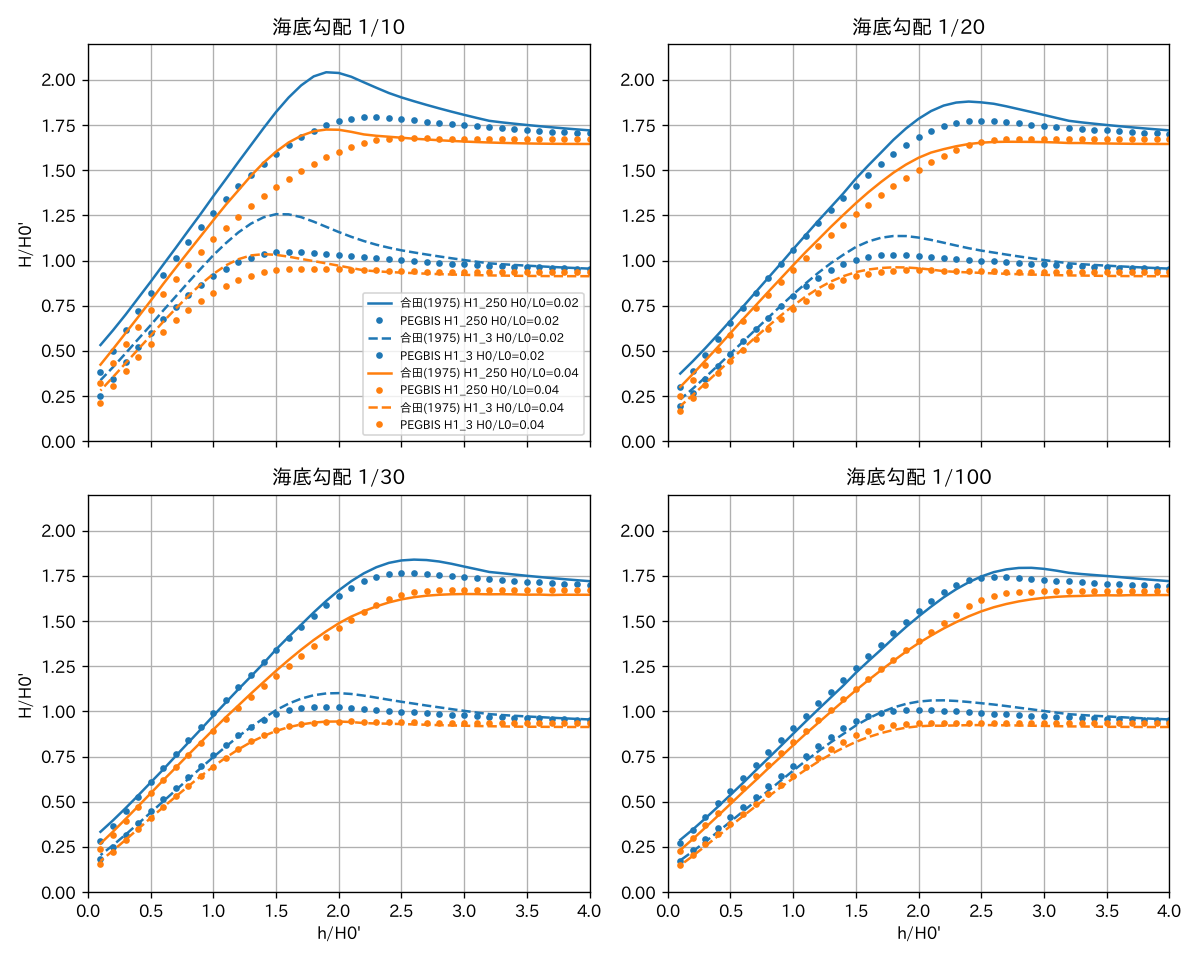
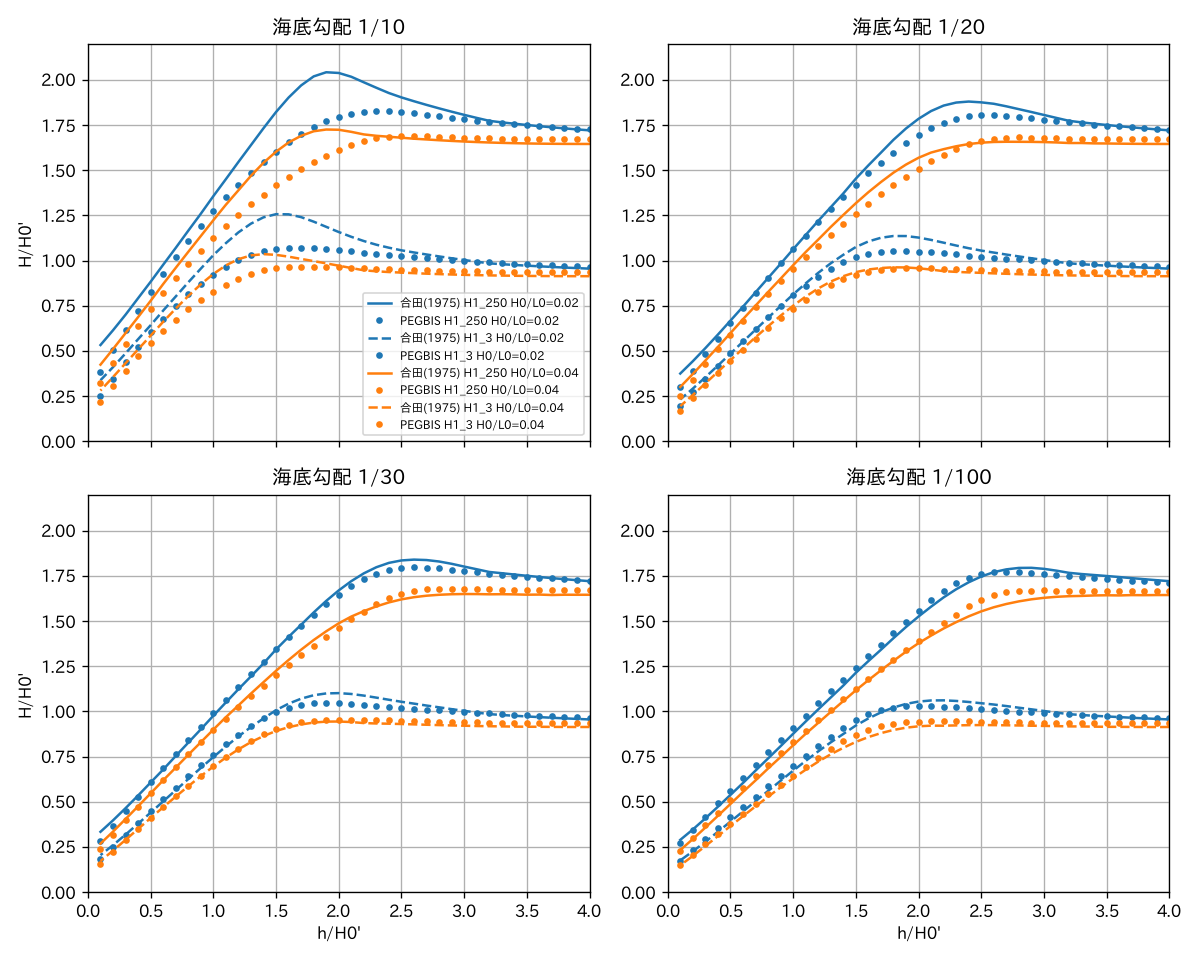
🐛 fix: PEGBIS を論文と再照合し、ピーク周期比・最大波高レベル・Cb の扱いを修正
- Tp/T1/3 を 1.05 (JONSWAP γ=3.3 の値) から修正 Bretschneider-光易型の
  0.6^(-1/4) = 1.136 に修正（論文付録: Tp = 9.10 s, T1/3 = 8.01 s）
- M を減らしても最大の波高レベル H1 を 1.80 H0' 以上とする（論文 6 章）
- Cb を波高レベル数 M に応じて決める default_cb() を追加（論文 2 章 (5)）
- cal_surf_pegbis / cal_surf_pegbis_slope / gradational_breaker_index に cb, cb2 を追加。
  cb2 の既定値は Cb に比例配分する（論文 9 章: Cb = 0.070 に対し Cb' = 0.0613）
- 図-1 の砕波限界波高比、Tp/T1/3、default_cb などのテストを追加

Claude-Session: https://claude.ai/code/session_01RbKMNssfhUY4SeuAwQupaZ

diff --git a/src/goda_wb/pegbis.py b/src/goda_wb/pegbis.py
@@ -25,7 +25,9 @@ from goda_wb.constant import (
     PEGBIS_BREAKING_DL0,
     PEGBIS_CB,
     PEGBIS_CB2,
+    PEGBIS_CB_BY_LEVELS,
     PEGBIS_FW,
+    PEGBIS_H1_MIN_RATIO,
     PEGBIS_LEVELS,
     PEGBIS_MAX_DH_RATIO,
     PEGBIS_MAX_DX_H_RATIO,
@@ -57,6 +59,9 @@ _DEEP_KH = 20.0
 def wave_levels(H0: float, M: int = PEGBIS_LEVELS) -> np.ndarray:
     """レイリー分布を等確率に M 分割した沖波の波高レベル（式 (5)）。
 
+    論文のプログラムと同じく、M を減らしても最大の波高レベル H1 は 1.80 H0' を下回らない
+    ようにする（6 章: 砕波帯外の沖側で Hmax = 1.80 H1/3 として計算を開始する）。
+
     Args:
         H0: 沖波の有義波高 H0' [m]
         M: 波高レベルの数
@@ -69,14 +74,32 @@ def wave_levels(H0: float, M: int = PEGBIS_LEVELS) -> np.ndarray:
     if M < 1:
         raise ValueError(f"波高レベル数は 1 以上でなければなりません: {M}")
     m = np.arange(1, M + 1)
-    return 0.706 * H0 * np.sqrt(np.log(2.0 * M / (2.0 * m - 1.0)))
+    levels = 0.706 * H0 * np.sqrt(np.log(2.0 * M / (2.0 * m - 1.0)))
+    levels[0] = max(levels[0], PEGBIS_H1_MIN_RATIO * H0)
+    return levels
+
+
+def default_cb(M: int) -> float:
+    """波高レベル数 M に応じた段階的砕波係数の定数 Cb（2 章 (5)）。
+
+    M >= 300 では 0.080、M = 101, 61, 31 では 0.077, 0.076, 0.074 とし、間は線形補間する。
+
+    Args:
+        M: 波高レベルの数
+
+    Returns:
+        定数 Cb
+    """
+    ms, cbs = zip(*PEGBIS_CB_BY_LEVELS, strict=True)
+    return float(np.interp(M, ms, cbs))
 
 
 def spectral_periods(T: float, n_freq: int) -> np.ndarray:
     """エネルギーが等しくなるように分割した周波数成分の周期（式 (15)、γ = 1）。
 
     Args:
-        T: 有義波周期 T1/3 [s]。ピーク周期は Tp = 1.05 T1/3 とする
+        T: 有義波周期 T1/3 [s]。ピーク周期は修正 Bretschneider-光易型スペクトルの
+            関係 Tp = 1.136 T1/3 とする
         n_freq: 周波数成分の数 N。1 の場合は T のみを返す
 
     Returns:
@@ -100,6 +123,8 @@ def gradational_breaker_index(
     slope: float,
     Hm: float | np.ndarray,
     H1: float,
+    cb: float = PEGBIS_CB,
+    cb2: float = PEGBIS_CB2,
 ) -> float | np.ndarray:
     """段階的砕波係数 κm（式 (7)、I <= 0 では式 (11) の κm'）。
 
@@ -113,14 +138,16 @@ def gradational_breaker_index(
         slope: 海底勾配 I（岸向きに浅くなる向きを正）
         Hm: 沖波の波高レベル [m]
         H1: 沖波の最大の波高レベル [m]
+        cb: I > 0 で用いる定数 Cb
+        cb2: I <= 0 で用いる定数 Cb'
 
     Returns:
         段階的砕波係数 κm
     """
     if slope > 0:
-        cb, beta0, p, i = PEGBIS_CB, PEGBIS_BETA0, PEGBIS_P, slope
+        beta0, p, i = PEGBIS_BETA0, PEGBIS_P, slope
     else:
-        cb, beta0, p, i = PEGBIS_CB2, PEGBIS_BETA02, PEGBIS_P2, 0.0
+        cb, beta0, p, i = cb2, PEGBIS_BETA02, PEGBIS_P2, 0.0
     hh = np.minimum(h, PEGBIS_BREAKING_DL0 * L0)
     first = cb * L0 / hh * (1.0 - np.exp(-1.5 * np.pi * hh / L0 * (1.0 + 15.0 * i**2.5)))
     second = beta0 * Hm / hh * (Hm / L0) ** (-0.38) * np.exp(30.0 * i**2)
@@ -250,6 +277,8 @@ def cal_surf_pegbis(
     fw: float | Sequence[float] = PEGBIS_FW,
     M: int = PEGBIS_LEVELS,
     n_freq: int = 1,
+    cb: float | None = None,
+    cb2: float | None = None,
 ) -> pd.DataFrame:
     """任意の断面地形における不規則波の砕波変形（PEGBIS の岸沖方向 1 次元版）。
 
@@ -266,6 +295,9 @@ def cal_surf_pegbis(
         fw: 底面の摩擦係数。スカラーまたは x と同じ長さの配列（点間は線形補間）
         M: 波高レベルの数
         n_freq: 周波数成分の数。1 の場合は周期 T の単一成分、2 以上では式 (15) で分割
+        cb: 段階的砕波係数の定数 Cb。None の場合は M に応じた値 (default_cb)。
+            論文は現地海岸への適用には Cb = 0.070 を推奨している（9 章 (5)）
+        cb2: 海底勾配 0 以下で用いる Cb'。None の場合は 0.080 × Cb / 0.080 の比例配分
 
     Returns:
         各入力点の結果を含む DataFrame。
@@ -286,6 +318,12 @@ def cal_surf_pegbis(
     if np.any(fw_arr < 0):
         raise ValueError("摩擦係数は非負でなければなりません")
 
+    if cb is None:
+        cb = default_cb(M)
+    if cb2 is None:
+        cb2 = PEGBIS_CB2 * cb / PEGBIS_CB
+    if cb <= 0 or cb2 <= 0:
+        raise ValueError(f"Cb, Cb' は正の値でなければなりません: cb={cb}, cb2={cb2}")
     levels = wave_levels(H0, M)
     periods = spectral_periods(T, n_freq)
     L0n = g * periods**2 / pi2
@@ -301,7 +339,7 @@ def cal_surf_pegbis(
     a = 0.5 * levels[:, None] * np.sqrt(0.5 / cg_prev)[None, :]
 
     def decay(amp: np.ndarray, j: int, kh: np.ndarray) -> np.ndarray:
-        kappa = gradational_breaker_index(hf[j], L0, slope[j], levels[:, None], levels[0])
+        kappa = gradational_breaker_index(hf[j], L0, slope[j], levels[:, None], levels[0], cb, cb2)
         fd = breaking_decay_coef(amp, hf[j], kappa, slope[j])
         if fwf[j] > 0:
             fd = fd + bottom_friction_coef(amp, hf[j], kh[None, :], fwf[j])
@@ -345,6 +383,8 @@ def cal_surf_pegbis_slope(
     fw: float = PEGBIS_FW,
     M: int = PEGBIS_LEVELS,
     n_freq: int = 1,
+    cb: float | None = None,
+    cb2: float | None = None,
 ) -> pd.DataFrame:
     """一様勾配斜面における PEGBIS の無次元計算（合田 (1975) のモデルとの比較用）。
 
@@ -358,6 +398,8 @@ def cal_surf_pegbis_slope(
         fw: 底面の摩擦係数
         M: 波高レベルの数
         n_freq: 周波数成分の数
+        cb: 段階的砕波係数の定数 Cb（cal_surf_pegbis と同じ）
+        cb2: 海底勾配 0 以下で用いる Cb'（cal_surf_pegbis と同じ）
 
     Returns:
         各水深における波高比 (H/H0') を含む DataFrame。
@@ -379,7 +421,7 @@ def cal_surf_pegbis_slope(
     grid = sorted(set(targets) | {start}, reverse=True)
     x = [(start - v) / tant for v in grid]
     T = float(np.sqrt(pi2 / g))  # L0 = 1
-    df = cal_surf_pegbis(x, grid, h0l0, T, fw=fw, M=M, n_freq=n_freq)
+    df = cal_surf_pegbis(x, grid, h0l0, T, fw=fw, M=M, n_freq=n_freq, cb=cb, cb2=cb2)
 
     cols = list(_REPRESENTATIVE) + ["Hrms", "Hmean"]
     res = df[cols] / h0l0

diff --git a/test/test_pegbis.py b/test/test_pegbis.py
@@ -11,6 +11,7 @@ sys.path.append(str(ROOT_DIR / "src"))
 
 import goda_wb.core as core
 import goda_wb.pegbis as pegbis
+from goda_wb.constant import PEGBIS_TP_T13
 
 # ---------------------------------------------------------------------------
 # wave_levels() / spectral_periods()
@@ -25,6 +26,23 @@ def test_wave_levels_reproduce_rayleigh_statistics() -> None:
     assert np.all(np.diff(levels) < 0)
     assert rep["H1_3"] == pytest.approx(1.0, abs=0.01)
     assert rep["H1_250"] / rep["H1_3"] == pytest.approx(1.80, abs=0.02)
+
+
+def test_wave_levels_h1_floor_for_small_m() -> None:
+    """M を減らしても最大レベルは 1.80 H0' を下回らないこと（論文 6 章）。"""
+    assert pegbis.wave_levels(1.0, 61)[0] == pytest.approx(1.80)
+    assert pegbis.wave_levels(1.0)[0] == pytest.approx(0.706 * np.sqrt(np.log(1662.0)))
+
+
+@pytest.mark.parametrize(("M", "expected"), [(831, 0.080), (300, 0.080), (101, 0.077), (31, 0.074)])
+def test_default_cb(M: int, expected: float) -> None:
+    """波高レベル数に応じた Cb（論文 2 章 (5)）。"""
+    assert pegbis.default_cb(M) == pytest.approx(expected)
+
+
+def test_peak_period_ratio_matches_paper() -> None:
+    """Tp/T1/3 が論文付録の Tp = 9.10 s, T1/3 = 8.01 s と一致すること。"""
+    assert pytest.approx(9.10 / 8.01, rel=0.002) == PEGBIS_TP_T13
 
 
 def test_spectral_periods() -> None:
@@ -75,6 +93,26 @@ def test_breaker_index_matches_paper_figures(
     """式 (7)/(11) の κm が論文の図-2, 3 と一致すること。"""
     kappa = pegbis.gradational_breaker_index(h, L0, slope, hm, H1_LEVEL)
     assert kappa == pytest.approx(expected, abs=0.02)
+
+
+# 図-1 (I = 0) の最大波高レベルの Hb/h = 2κ1 を h/L0 = 0.01 で読み取った値。
+# 図中の H0/L0 は H1/L0 として描かれている
+@pytest.mark.parametrize(("h1l0", "expected"), [(0.01, 0.92), (0.02, 1.02), (0.04, 1.18)])
+def test_breaker_index_matches_fig1(h1l0: float, expected: float) -> None:
+    """最大レベルの砕波限界波高比が論文の図-1 と一致すること。"""
+    kappa = pegbis.gradational_breaker_index(0.01, 1.0, 0.0, h1l0, h1l0, cb2=0.080)
+    assert 2.0 * kappa == pytest.approx(expected, abs=0.03)
+
+
+def test_breaker_index_custom_cb() -> None:
+    """Cb, Cb' を指定すると勾配の正負に応じて使い分けること。"""
+    base = pegbis.gradational_breaker_index(1.0, 50.0, 0.02, 1.0, 1.0)
+    low = pegbis.gradational_breaker_index(1.0, 50.0, 0.02, 1.0, 1.0, cb=0.070)
+    flat = pegbis.gradational_breaker_index(1.0, 50.0, 0.0, 1.0, 1.0, cb=0.070)
+    flat2 = pegbis.gradational_breaker_index(1.0, 50.0, 0.0, 1.0, 1.0, cb2=0.0613)
+    assert low < base
+    assert flat == pytest.approx(pegbis.gradational_breaker_index(1.0, 50.0, 0.0, 1.0, 1.0))
+    assert flat2 < flat
 
 
 def test_breaker_index_capped_beyond_dl0_02() -> None:
@@ -210,7 +248,8 @@ def test_horizontal_step_matches_paper_calculation() -> None:
     """水平ステップ上の安定波高が論文 図-11 の計算値と概ね一致すること。
 
     図-11 の計算値（水平床上）は Hmax ≈ 0.101, H1/10 ≈ 0.078, H1/3 ≈ 0.065 m。
-    本実装は 7~8 % 小さい（Hrms, Hmean は 15~19 % 小さい）。
+    本実装は 5~6 % 小さい（Hrms, Hmean は 12~14 % 小さい）。沖側 (h = 0.36 m) の H1/3 は
+    論文の 0.088 m に対し、浅水係数 Ks ≈ 1.03 の分だけ大きい。
     """
     df = pegbis.cal_surf_pegbis(KWEON_X, KWEON_H, 0.0879, 2.21, n_freq=10)
     flat = df[df["x"] >= 3.0]
@@ -219,7 +258,7 @@ def test_horizontal_step_matches_paper_calculation() -> None:
     assert last["H1_250"] == pytest.approx(0.101, rel=0.12)
     assert last["H1_10"] == pytest.approx(0.078, rel=0.12)
     assert last["H1_3"] == pytest.approx(0.065, rel=0.12)
-    assert df.loc[0, "H1_3"] == pytest.approx(0.088, rel=0.03)
+    assert df.loc[0, "H1_3"] == pytest.approx(0.088, rel=0.05)
 
 
 def test_friction_reduces_wave_height() -> None:
@@ -239,6 +278,16 @@ def test_result_independent_of_input_spacing() -> None:
     assert a.iloc[-1]["H1_3"] == pytest.approx(b.iloc[-1]["H1_3"], rel=0.01)
 
 
+def test_lower_cb_increases_decay() -> None:
+    """Cb を下げる（現地海岸向け 0.070）と砕波帯内の波高が小さくなること。"""
+    x = [0.0, 300.0, 500.0]
+    h = [10.0, 2.0, 2.0]
+    lab = pegbis.cal_surf_pegbis(x, h, 3.0, 8.0)
+    field = pegbis.cal_surf_pegbis(x, h, 3.0, 8.0, cb=0.070)
+    assert field.iloc[-1]["H1_3"] < lab.iloc[-1]["H1_3"]
+    assert field.iloc[0]["H1_3"] == pytest.approx(lab.iloc[0]["H1_3"])
+
+
 @pytest.mark.parametrize(
     ("x", "h", "kwargs"),
     [
@@ -247,6 +296,7 @@ def test_result_independent_of_input_spacing() -> None:
         ([0.0, 0.0], [1.0, 1.0], {}),
         ([0.0, 1.0], [1.0, 0.0], {}),
         ([0.0, 1.0], [1.0, 1.0], {"fw": -0.1}),
+        ([0.0, 1.0], [1.0, 1.0], {"cb": 0.0}),
     ],
 )
 def test_profile_rejects_invalid(x, h, kwargs) -> None:

diff --git a/src/goda_wb/constant.py b/src/goda_wb/constant.py
@@ -29,12 +29,17 @@ INVERSE_TOL = 1.0e-6
 # --- 段階的砕波変形モデル PEGBIS (合田, ECOH/YG 技術論文 No.2, Ver.5, 2004) ---
 # 波高レベル数 M（式 (5)）。M = 831 で上位 3.3 レベルの平均が H1/250 = 1.80 H1/3 となる
 PEGBIS_LEVELS = 831
-# 段階的砕波係数 κm の定数（式 (8)、海底勾配 I > 0）
+# 段階的砕波係数 κm の定数（式 (8)、海底勾配 I > 0）。Cb = 0.080 は M >= 300 の値
 PEGBIS_CB = 0.080
 PEGBIS_BETA0 = 0.016
 PEGBIS_P = 0.333
+# 波高レベル数 M が小さいときの Cb（2 章 (5): M = 101, 61, 31 で 0.077, 0.076, 0.074）
+PEGBIS_CB_BY_LEVELS = ((31, 0.074), (61, 0.076), (101, 0.077), (300, 0.080))
+# M を減らしても最大の波高レベル H1 はこの値 × H0' 以上とする（6 章: Hmax = 1.80 H1/3）
+PEGBIS_H1_MIN_RATIO = 1.80
 # 海底勾配 I <= 0（トラフ・水平ステップ）の第 2 の段階的砕波係数 κm' の定数（式 (11)）。
-# 論文では Cb' = 0.070~0.080 とされ、水平ステップには 0.080 を適用している
+# 論文では Cb' = 0.070~0.080 とされ、水平ステップには 0.080 を適用している。
+# Cb を変えるときは Cb' を比例配分する（9 章: Cb = 0.070 に対し Cb' = 0.0613）
 PEGBIS_CB2 = 0.080
 PEGBIS_BETA02 = 0.016
 PEGBIS_P2 = 0.667
@@ -44,8 +49,9 @@ PEGBIS_BREAKING_DL0 = 0.2
 PEGBIS_SLOPE_DISTANCE_L0 = 0.1
 # 一般の海底面の摩擦係数 fw（2 章 (7)）
 PEGBIS_FW = 0.01
-# 周波数スペクトル成分を使うときのピーク周期と有義波周期の比 (Tp = 1.05 T1/3)
-PEGBIS_TP_T13 = 1.05
+# 周波数スペクトル成分を使うときのピーク周期と有義波周期の比。修正 Bretschneider-光易型
+# (γ = 1) では Tp = 0.6^(-1/4) T1/3 = 1.136 T1/3（付録: Tp = 9.10 s, T1/3 = 8.01 s）
+PEGBIS_TP_T13 = 0.6**-0.25
 # 内部の計算格子の上限: 1 格子の水深変化 |Δh| <= 比 × h、Δx <= 比 × h、Δx <= 比 × L
 PEGBIS_MAX_DH_RATIO = 0.05
 PEGBIS_MAX_DX_H_RATIO = 0.5

diff --git a/CLAUDE.md b/CLAUDE.md
@@ -23,11 +23,11 @@ goda_wb/
 │   └── goda_wb/
 │       ├── __init__.py       # Package init — imports the `core` submodule only
 │       ├── core.py           # Goda (1975) model — all its computation logic (744 lines, 18 functions)
-│       ├── pegbis.py         # Goda (2004) gradational breaking model PEGBIS, 1-D cross-shore (390 lines)
-│       └── constant.py       # Physical constants & model parameters (181 lines)
+│       ├── pegbis.py         # Goda (2004) gradational breaking model PEGBIS, 1-D cross-shore (432 lines)
+│       └── constant.py       # Physical constants & model parameters (187 lines)
 ├── test/
 │   ├── test_core.py          # Test suite for core (662 lines, 137 test cases)
-│   └── test_pegbis.py        # Test suite for pegbis (255 lines, 40 test cases)
+│   └── test_pegbis.py        # Test suite for pegbis (305 lines, 52 test cases)
 ├── sample/                   # Usage examples and visualization scripts
 │   ├── check_core.py
 │   ├── check_goda.py
@@ -86,7 +86,7 @@ uv sync
 uv run pytest -v
 ```
 
-Tests live in `test/test_core.py` (137 cases, covering all public API functions of `core`, including a comparison with values read from Goda (1975) Figs. 50–57 and Table-4) and `test/test_pegbis.py` (40 cases for `pegbis`). All tests must pass before committing.
+Tests live in `test/test_core.py` (137 cases, covering all public API functions of `core`, including a comparison with values read from Goda (1975) Figs. 50–57 and Table-4) and `test/test_pegbis.py` (52 cases for `pegbis`). All tests must pass before committing.
 
 ### Linting and Formatting
 
@@ -154,13 +154,14 @@ A separate model: Goda (2004) ECOH/YG No.2 Ver.5, restricted to 1-D cross-shore,
 
 | Function | Signature | Description |
 |----------|-----------|-------------|
-| `cal_surf_pegbis` | `(x, h, H0, T, fw=0.01, M=831, n_freq=1) → DataFrame` | Arbitrary profile; `x` [m] increasing shoreward, `h` [m] > 0. Columns `x`, `h`, `slope`, `Ks`, `H1_250` … `H1_3`, `Hrms`, `Hmean` [m]. `fw` scalar or per-point array |
-| `cal_surf_pegbis_slope` | `(tant, h0l0, dl0=None, fw=0.01, M=831, n_freq=1) → DataFrame` | Uniform slope, dimensionless (L0 = 1, start at h/L0 = max(0.5, max(dl0))); columns as `cal_surf_goda` (ratios to H0') plus `Hrms`, `Hmean`; no `etal0` |
-| `gradational_breaker_index` | `(h, L0, slope, Hm, H1)` | κm, eq. (7)/(8); for slope <= 0 eq. (11) constants with I = 0; h/L0 capped at 0.2 |
+| `cal_surf_pegbis` | `(x, h, H0, T, fw=0.01, M=831, n_freq=1, cb=None, cb2=None) → DataFrame` | Arbitrary profile; `x` [m] increasing shoreward, `h` [m] > 0. Columns `x`, `h`, `slope`, `Ks`, `H1_250` … `H1_3`, `Hrms`, `Hmean` [m]. `fw` scalar or per-point array. `cb=None` → `default_cb(M)`; `cb2=None` → `0.080 · cb / 0.080` (proportional, as the paper does for its field cases; it recommends `cb=0.070` for field sites) |
+| `cal_surf_pegbis_slope` | `(tant, h0l0, dl0=None, fw=0.01, M=831, n_freq=1, cb=None, cb2=None) → DataFrame` | Uniform slope, dimensionless (L0 = 1, start at h/L0 = max(0.5, max(dl0))); columns as `cal_surf_goda` (ratios to H0') plus `Hrms`, `Hmean`; no `etal0` |
+| `gradational_breaker_index` | `(h, L0, slope, Hm, H1, cb=0.080, cb2=0.080)` | κm, eq. (7)/(8); for slope <= 0 eq. (11) constants with I = 0; h/L0 capped at 0.2 |
 | `breaking_decay_coef` | `(a, h, kappa, slope)` | f_Db, eq. (4) with α_b = 3/8 (0.3 + 2.5 max(I, 0)) (appendix eq. 付1) |
 | `bottom_friction_coef` | `(a, h, kh, fw)` | f_Df, eq. (14) |
 | `swart_fw` | `(ks, am) → float` | Swart (1974) friction factor, capped at 0.30 |
-| `wave_levels` / `spectral_periods` | `(H0, M)` / `(T, n_freq)` | Equal-probability Rayleigh levels, eq. (5); equal-energy frequency split, eq. (15) with Tp = 1.05 T1/3 |
+| `wave_levels` / `spectral_periods` | `(H0, M)` / `(T, n_freq)` | Equal-probability Rayleigh levels, eq. (5), with H1 raised to at least 1.80 H0' for small M (paper §6); equal-energy frequency split, eq. (15) with Tp = 0.6^(-1/4) T1/3 = 1.136 T1/3 (modified Bretschneider–Mitsuyasu; paper appendix: Tp = 9.10 s ↔ T1/3 = 8.01 s) |
+| `default_cb` | `(M) → float` | Cb by number of levels: 0.080 (M ≥ 300), 0.077 (101), 0.076 (61), 0.074 (31), linear in between |
 
 ---
 
@@ -207,7 +208,7 @@ A separate model: Goda (2004) ECOH/YG No.2 Ver.5, restricted to 1-D cross-shore,
 | `ETAI_MAX_RATIO` | 2.0 | Cap on the spacing ratio used by `etai()` extrapolation |
 | `INVERSE_H0L0_MIN` / `INVERSE_H0L0_MAX` | 1e-4 / 0.1 | H0/L0 search bracket of `cal_h0_from_height()`; targets outside it raise `ValueError` |
 | `INVERSE_TOL` | 1e-6 | Convergence tolerance on log(H0/L0) in `cal_h0_from_height()` |
-| `PEGBIS_*` | — | PEGBIS constants: `CB`/`BETA0`/`P` = 0.080/0.016/0.333 (eq. 8), `CB2`/`BETA02`/`P2` = 0.080/0.016/0.667 (eq. 11; paper gives Cb' = 0.070–0.080), `LEVELS` = 831, `FW` = 0.01, `BREAKING_DL0` = 0.2, `SLOPE_DISTANCE_L0` = 0.1, `TP_T13` = 1.05, internal grid limits `MAX_DH_RATIO`/`MAX_DX_H_RATIO`/`MAX_DX_L_RATIO` |
+| `PEGBIS_*` | — | PEGBIS constants: `CB`/`BETA0`/`P` = 0.080/0.016/0.333 (eq. 8), `CB2`/`BETA02`/`P2` = 0.080/0.016/0.667 (eq. 11; paper gives Cb' = 0.070–0.080), `LEVELS` = 831, `FW` = 0.01, `BREAKING_DL0` = 0.2, `SLOPE_DISTANCE_L0` = 0.1, `CB_BY_LEVELS` (table for `default_cb`), `H1_MIN_RATIO` = 1.80, `TP_T13` = 1.136, internal grid limits `MAX_DH_RATIO`/`MAX_DX_H_RATIO`/`MAX_DX_L_RATIO` |
 | `goda_dl0_list` | 113 values | Default d/L₀ evaluation points (1e-9–1.0, descending) |
 | `GAUSS_HERMITE_ABSCISSAE/WEIGHTS` | 8 points | Discretized normal distribution for surf beat (see note below) |
 
@@ -250,7 +251,7 @@ uv run pytest -v test/test_core.py::test_function_name
 
 7. **Inverse calculation**: `cal_h0_from_height()` fixes T (so d/L0 is fixed) and solves `H(H0) = H` on log(H0/L0) with the Illinois (modified regula falsi) method, using `cal_surf_goda` or `cal_surf_goda_approx` as the forward model; the wave height is monotonically increasing in H0. One forward evaluation of the full model takes ~0.1 s, so one inversion takes about 1 s. Inside the surf zone H saturates with H0, so the inverse is ill-conditioned there.
 
-8. **PEGBIS**: with normal incidence the parabolic equation reduces, per level m and frequency component n, to `da/dx = -(1/2) a d(ln cg)/dx - f_D a`. `cal_surf_pegbis` marches it with Heun's method on an internal grid (input points plus subdivisions limited by `PEGBIS_MAX_*`) from the offshore boundary, where heights are linearly shoaled from deep water (the boundary must be outside the surf zone). κm always uses the L0 of T1/3, also for spectral components. Level heights combine components as rms and are sorted before computing H1/n (fractional level weighting); Hmax is represented by `H1_250` as in the paper. No setup, surf beat, nonlinear shoaling, refraction or diffraction. Known differences from the paper: on slope 1/10, Hmax up to ~0.1 H0' lower than the paper's PEGBIS points; on Kweon's step (Fig. 11), stable Hmax/H1/10/H1/3 are 7–8 % lower and Hrms/Hmean 15–19 % lower than the paper's computed values. Shoaling minimum 0.937 with `n_freq=10` matches the paper.
+8. **PEGBIS**: with normal incidence the parabolic equation reduces, per level m and frequency component n, to `da/dx = -(1/2) a d(ln cg)/dx - f_D a`. `cal_surf_pegbis` marches it with Heun's method on an internal grid (input points plus subdivisions limited by `PEGBIS_MAX_*`) from the offshore boundary, where heights are linearly shoaled from deep water (the boundary must be outside the surf zone). κm always uses the L0 of T1/3, also for spectral components. Level heights combine components as rms and are sorted before computing H1/n (fractional level weighting); Hmax is represented by `H1_250` as in the paper. No setup, surf beat, nonlinear shoaling, refraction or diffraction. Known differences from the paper: on slope 1/10, Hmax up to ~0.07 H0' lower than the paper's PEGBIS points (付図-4); on Kweon's step (Fig. 11), stable Hmax/H1/10/H1/3 are 5–6 % lower and Hrms/Hmean 12–14 % lower than the paper's computed values, and the offshore H1/3 is ~3 % higher (Ks ≈ 1.03 at h = 0.36 m). Shoaling minimum 0.937 with `n_freq=10` matches the paper.
 
 ---
 

diff --git a/README.md b/README.md
@@ -196,7 +196,8 @@ cd sample && uv run python compare_goda1975.py
 - 沖波をレイリー分布で等確率に分けた M 個（既定 831）の波高レベルごとに、微小振幅波の浅水変形と減衰を計算します
 - 砕波減衰は式 (4)（α_b は付記の式 (付 1)）、砕波限界は波高レベルごとの段階的砕波係数 κm（式 (7)(8)、勾配 0 以下では式 (11) の κm'）、底面摩擦は式 (14) によります
 - 局所海底勾配は沖側 L0/10 の点との水深差から求めます
-- `n_freq` を 2 以上にすると、周波数スペクトルを式 (15) でエネルギーが等しい成分に分けます（Tp = 1.05 T1/3）
+- `n_freq` を 2 以上にすると、周波数スペクトルを式 (15) でエネルギーが等しい成分に分けます（修正 Bretschneider-光易型で Tp = 1.136 T1/3）
+- 段階的砕波係数の定数 Cb は波高レベル数 M に応じて決め（M >= 300 で 0.080）、勾配 0 以下の Cb' は Cb に比例させます。論文は現地海岸への適用では `cb=0.070` を推奨しています
 - ウェーブセットアップ、サーフビート、非線形浅水変形、屈折・回折は含みません
 
 ```python
@@ -222,11 +223,11 @@ cd sample && uv run python compare_pegbis.py
 
 ![一様勾配斜面での合田 (1975) モデルとの比較](sample/pegbis/compare_slope.png)
 
-論文の図-6〜9 と同様に、勾配 1/30, 1/100 では合田 (1975) のモデルとほぼ一致し、勾配 1/10, 1/20 では h/H0′ = 1.5〜2.5 付近で小さめになります。周波数スペクトルを使うと浅水係数の極小値は 0.937 で、論文の値と一致します。ただし勾配 1/10 では、論文の計算値より Hmax が最大 0.1 程度小さくなっています。
+論文の図-6〜9 と同様に、勾配 1/30, 1/100 では合田 (1975) のモデルとほぼ一致し、勾配 1/10, 1/20 では h/H0′ = 1.5〜2.5 付近で小さめになります。周波数スペクトルを使うと浅水係数の極小値は 0.937 で、論文の値と一致します。ただし勾配 1/10 では、論文の計算値より Hmax が最大 0.07 程度小さくなっています。
 
 ![権の水平ステップ実験（図-11）の地形での計算](sample/pegbis/kweon_step.png)
 
-水平ステップ上の安定波高は、論文 図-11 の計算値より Hmax・H1/10・H1/3 で 7〜8%、Hrms・Hmean で 15〜19% 小さくなります。
+水平ステップ上の安定波高は、論文 図-11 の計算値より Hmax・H1/10・H1/3 で 5〜6%、Hrms・Hmean で 12〜14% 小さくなります。
 
 ## 依存関係
 
